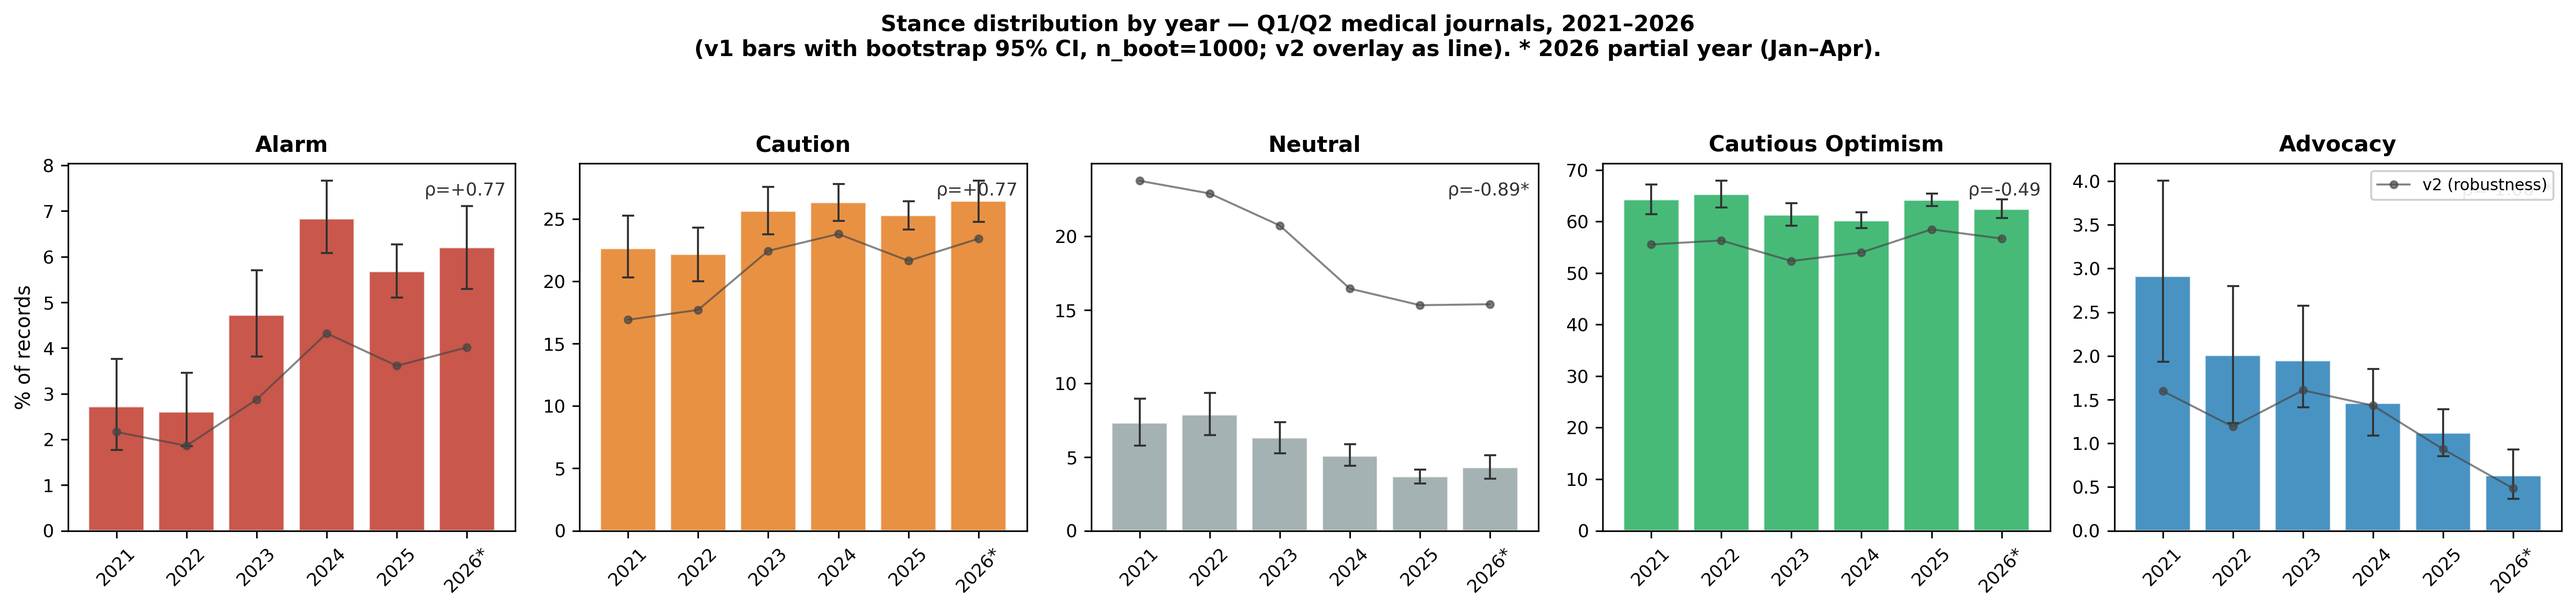
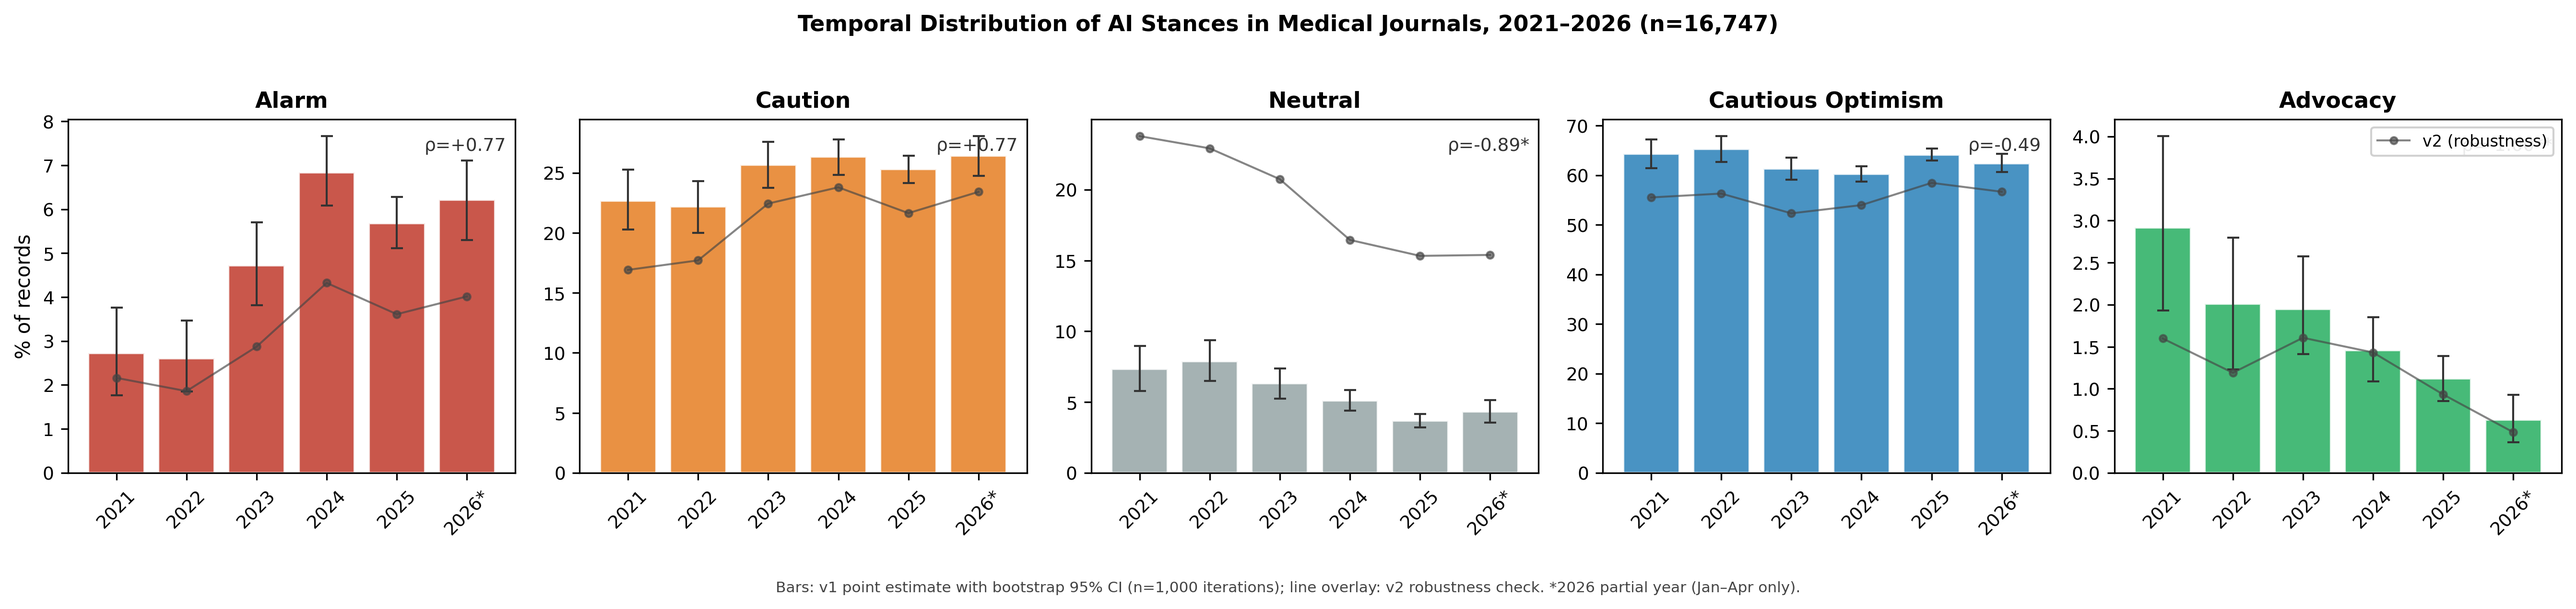
Revise temporal_stance figure for publication
- New title: "Temporal Distribution of AI Stances in Medical Journals,
  2021–2026 (n=16,747)"
- Move methodology note to fig.text at bottom outside plot area (7.5pt)
- Swap Cautious Optimism / Advocacy colours: CO=#2980B9, Advocacy=#27AE60

diff --git a/analysis/run_temporal_stance.py b/analysis/run_temporal_stance.py
@@ -38,8 +38,8 @@ STANCE_COLOURS = {
     "Alarm": "#C0392B",
     "Caution": "#E67E22",
     "Neutral": "#95A5A6",
-    "Cautious Optimism": "#27AE60",
-    "Advocacy": "#2980B9",
+    "Cautious Optimism": "#2980B9",
+    "Advocacy": "#27AE60",
 }
 
 YEARS = list(range(2021, 2027))  # 2021–2026 inclusive
@@ -165,12 +165,16 @@ def main() -> None:
     axes[0].set_ylabel("% of records", fontsize=10)
     axes[-1].legend(loc="upper right", fontsize=8, framealpha=0.9)
     fig.suptitle(
-        "Stance distribution by year — Q1/Q2 medical journals, 2021–2026\n"
-        "(v1 bars with bootstrap 95% CI, n_boot=1000; v2 overlay as line). "
-        "* 2026 partial year (Jan–Apr).",
-        fontsize=11, fontweight="bold", y=1.05,
+        "Temporal Distribution of AI Stances in Medical Journals, 2021–2026 (n=16,747)",
+        fontsize=11, fontweight="bold", y=1.02,
     )
-    fig.tight_layout()
+    fig.tight_layout(rect=[0, 0.07, 1, 1])
+    fig.text(
+        0.5, 0.01,
+        "Bars: v1 point estimate with bootstrap 95% CI (n=1,000 iterations); "
+        "line overlay: v2 robustness check. *2026 partial year (Jan–Apr only).",
+        ha="center", va="bottom", fontsize=7.5, color="#444444",
+    )
     out_fig = FIGURES_DIR / "temporal_stance.png"
     fig.savefig(out_fig, dpi=300, bbox_inches="tight", facecolor="white")
     plt.close(fig)
